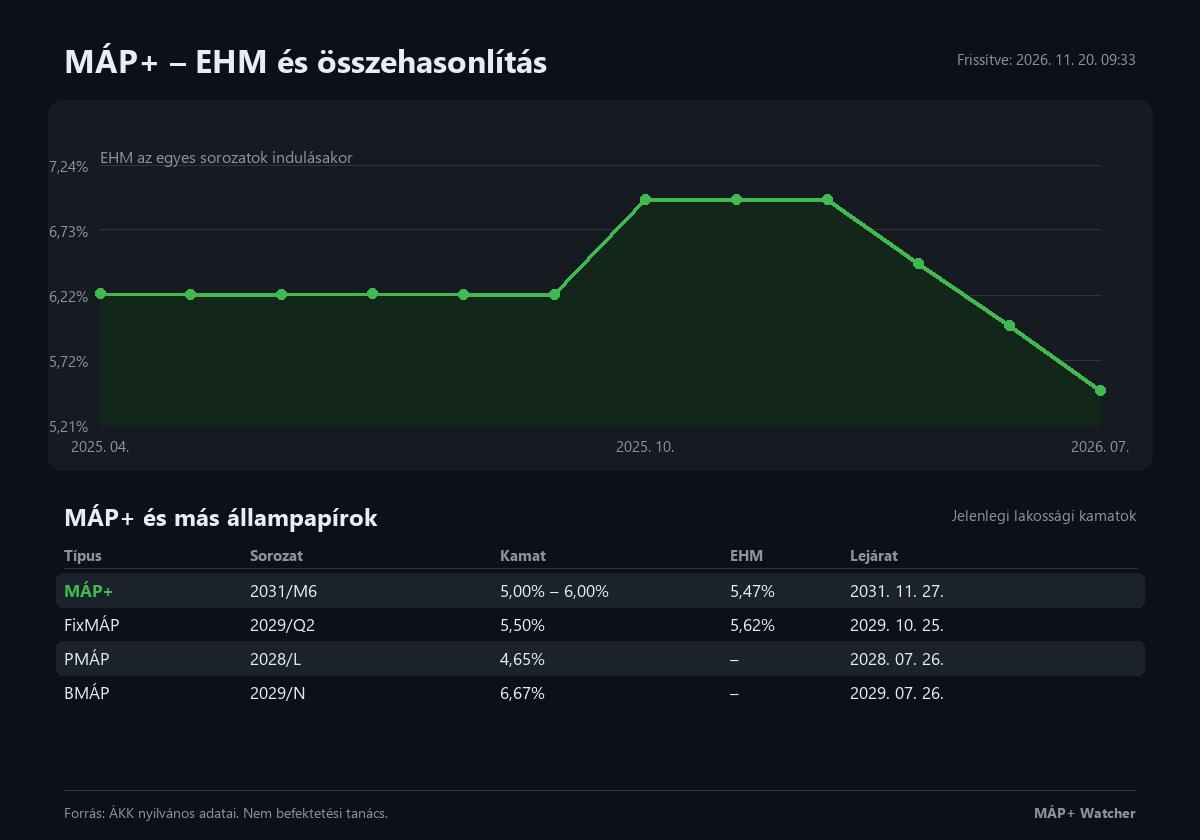
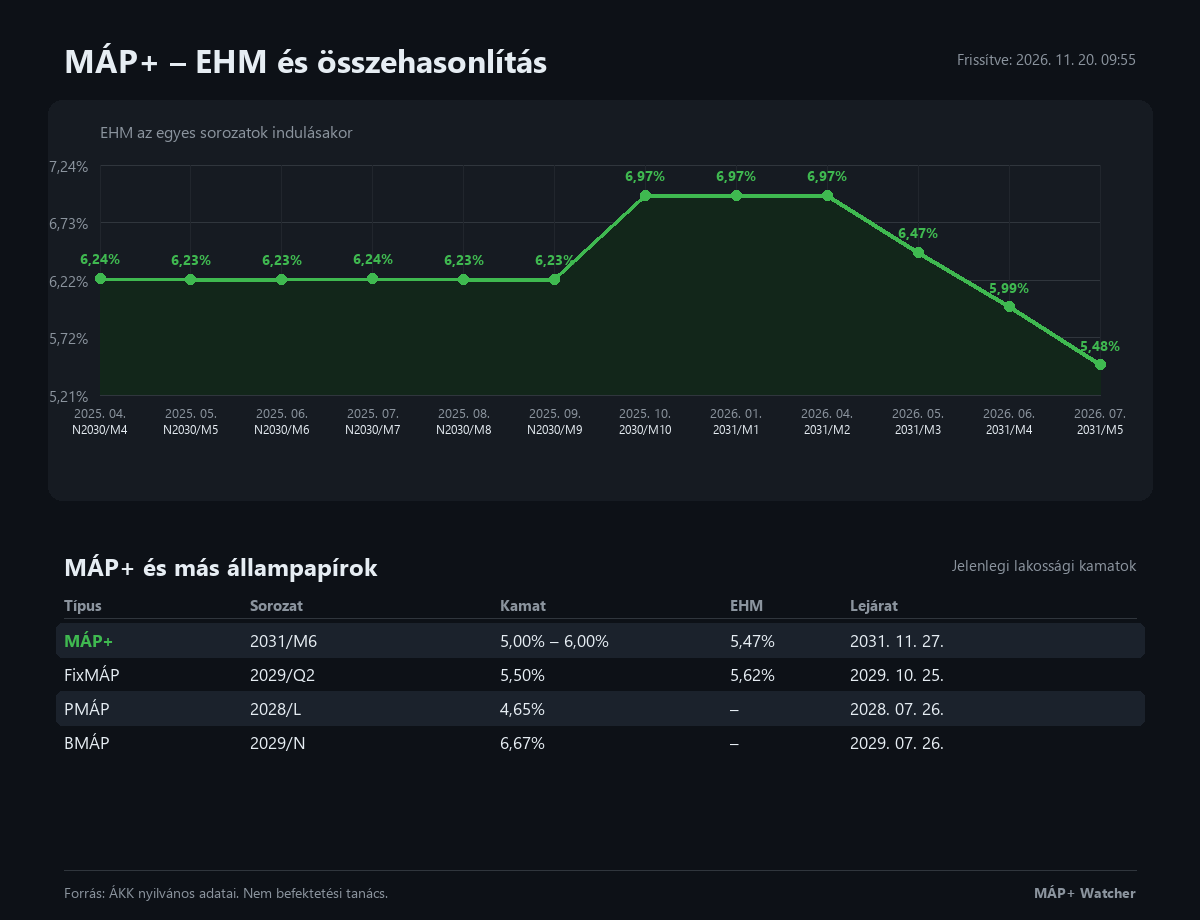
Grafikon: minden pontnal datum, sorozatnev es EHM-ertek

diff --git a/allampapir_ertesito/chart.py b/allampapir_ertesito/chart.py
@@ -9,7 +9,7 @@ from .dashboard import DashboardData, _product_label
 from .util import format_date_hu, format_percent, format_rate_range, to_float
 
 _WIDTH = 1200
-_HEIGHT = 840
+_HEIGHT = 920
 _BG = "#0d1117"
 _PANEL = "#161b22"
 _TEXT = "#e6edf3"
@@ -58,7 +58,7 @@ def _history_points(data: DashboardData):
     for row in rows:
         value = to_float(row.ehm)
         if value is not None:
-            points.append((row.valid_from, value))
+            points.append((row.valid_from, value, row.name))
     return points
 
 
@@ -75,7 +75,7 @@ def _draw_ehm_chart(draw, data: DashboardData, box: tuple[int, int, int, int]) -
         )
         return
 
-    values = [value for _, value in points]
+    values = [value for _, value, _ in points]
     low = min(values)
     high = max(values)
     padding = max((high - low) * 0.18, 0.12)
@@ -99,28 +99,54 @@ def _draw_ehm_chart(draw, data: DashboardData, box: tuple[int, int, int, int]) -
         label = format_percent(value) or ""
         draw.text((x0 - 12, y), label, font=_font(15), fill=_MUTED, anchor="rm")
 
+    # Függőleges segédvonalak minden sorozat indulásánál.
+    for index in range(len(points)):
+        x = x_of(index)
+        draw.line((x, y0, x, y1), fill="#21262d", width=1)
+
     # Terület és vonal.
-    coords = [(x_of(i), y_of(value)) for i, (_, value) in enumerate(points)]
+    coords = [(x_of(i), y_of(value)) for i, (_, value, _) in enumerate(points)]
     area = coords + [(coords[-1][0], y1), (coords[0][0], y1)]
     draw.polygon(area, fill=_GREEN_DARK)
     draw.line(coords, fill=_GREEN, width=4, joint="curve")
-    for x, y in coords:
-        draw.ellipse((x - 5, y - 5, x + 5, y + 5), fill=_GREEN)
 
-    # Dátumcímkék az első, középső és utolsó ponthoz.
-    indexes = {0, len(points) // 2, len(points) - 1}
-    for index in sorted(indexes):
-        day, _ = points[index]
+    # Pontok, felettük a konkrét EHM-értékkel.
+    for index, (_, value, _) in enumerate(points):
+        x, y = coords[index]
+        draw.ellipse((x - 5, y - 5, x + 5, y + 5), fill=_GREEN)
+        label = format_percent(value) or ""
+        label_y = y - 20
+        if label_y < 118:
+            label_y = y + 24
         draw.text(
-            (x_of(index), y1 + 10),
+            (x, label_y),
+            label,
+            font=_font(14, True),
+            fill=_GREEN,
+            anchor="mm",
+        )
+
+    # Dátum és sorozatnév minden pont alatt.
+    for index, (day, _, name) in enumerate(points):
+        x = x_of(index)
+        draw.text(
+            (x, y1 + 8),
             _short_date(day),
-            font=_font(15),
+            font=_font(13),
             fill=_MUTED,
             anchor="ma",
         )
+        draw.text(
+            (x, y1 + 26),
+            name,
+            font=_font(12),
+            fill=_TEXT,
+            anchor="ma",
+        )
 
+    draw.line((x0, y1, x1, y1), fill=_GRID, width=1)
     draw.text(
-        (x0, y0 - 20),
+        (x0, y0 - 45),
         "EHM az egyes sorozatok indulásakor",
         font=_font(16),
         fill=_MUTED,
@@ -204,22 +230,22 @@ def render_chart(data: DashboardData, path: Path) -> Path:
     )
 
     # Grafikonpanel.
-    draw.rounded_rectangle((48, 100, 1152, 470), radius=14, fill=_PANEL)
-    _draw_ehm_chart(draw, data, (100, 165, 1100, 425))
+    draw.rounded_rectangle((48, 100, 1152, 500), radius=14, fill=_PANEL)
+    _draw_ehm_chart(draw, data, (100, 165, 1100, 395))
 
     # Összehasonlítás.
-    _draw_products(draw, data, 500)
+    _draw_products(draw, data, 550)
 
     # Lábléc.
-    draw.line((64, 790, 1136, 790), fill=_GRID, width=1)
+    draw.line((64, 870, 1136, 870), fill=_GRID, width=1)
     draw.text(
-        (64, 802),
+        (64, 882),
         "Forrás: ÁKK nyilvános adatai. Nem befektetési tanács.",
         font=_font(14),
         fill=_MUTED,
     )
     draw.text(
-        (1136, 802),
+        (1136, 882),
         "MÁP+ Watcher",
         font=_font(14, True),
         fill=_MUTED,
